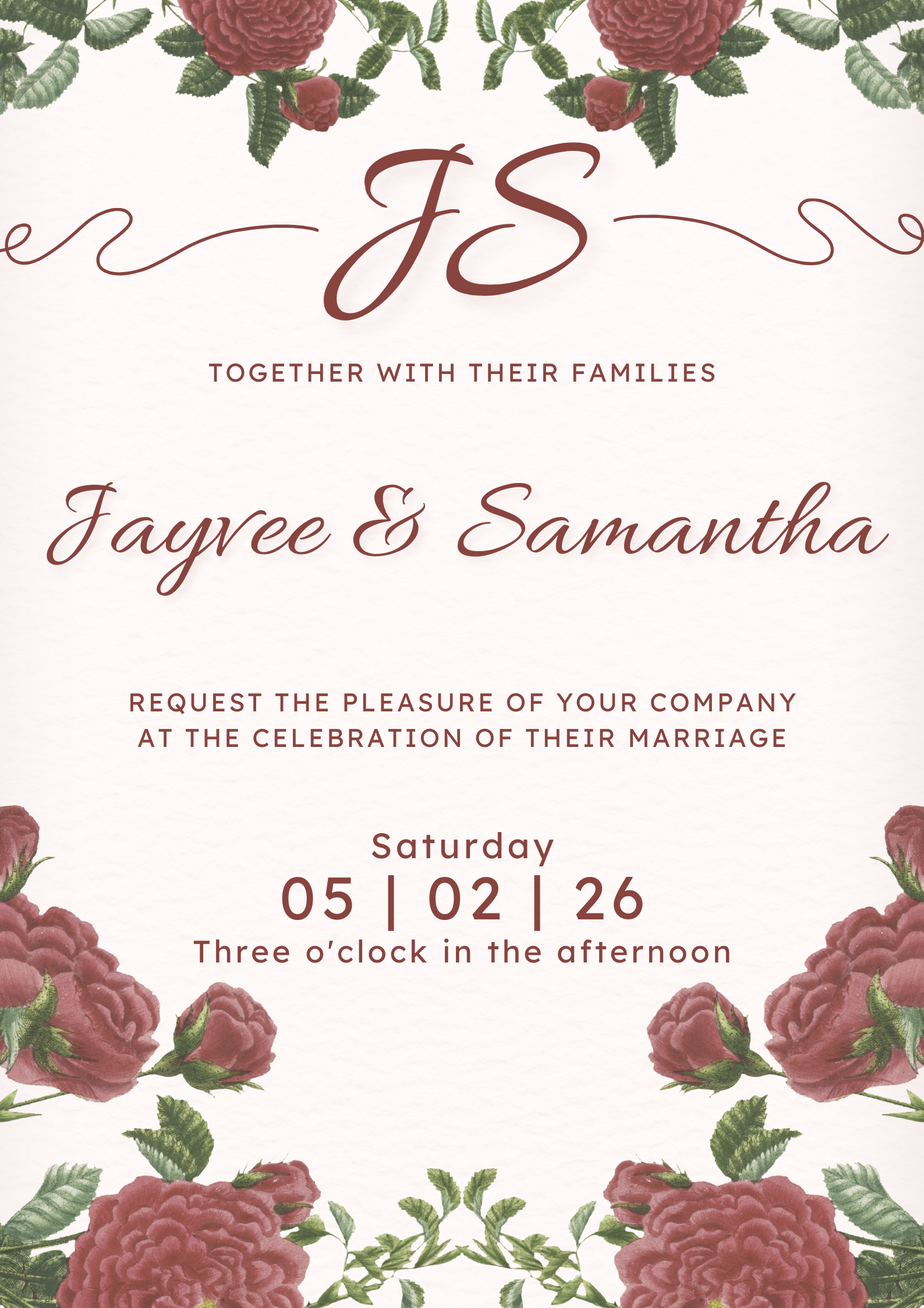
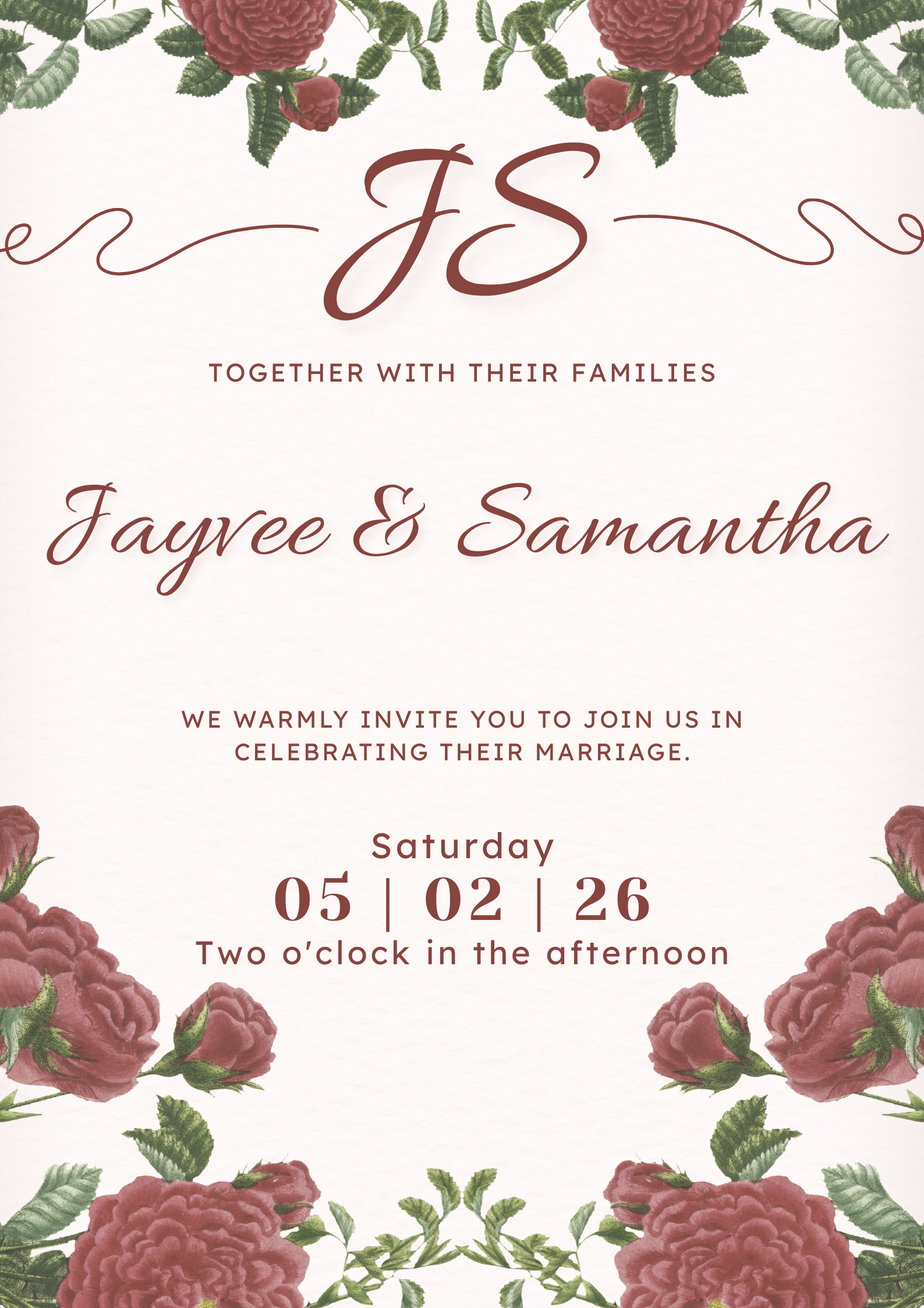
Add files via upload

Changed region(s): [[0.1235, 0.5301, 0.8645, 0.5924], [0.2161, 0.6548, 0.8028, 0.7483]]

diff --git a/index.html b/index.html
@@ -22,7 +22,7 @@
 
         <!-- Countdown Timer -->
         <section class="countdown-section fade-in">
-            <h3>Counting Down to Our Special Day</h3>
+            <h3>Counting Every Moment Until We Become One</h3>
             <div class="countdown" id="countdown">
                 <div class="countdown-item">
                     <span class="countdown-number" id="days">000</span>
@@ -61,6 +61,7 @@
                     <img src="places/kingdomhall.png" alt="Kingdom Hall of Jehovah's Witnesses">
                 </div>
                 <div class="venue-details">
+                    <span class="venue-type-label ceremony">Ceremony Venue</span>
                     <h3 class="venue-name">Kingdom Hall of Jehovah's Witnesses</h3>
                     <p class="venue-address">
                         20 Mahusay, Diliman<br>
@@ -72,10 +73,29 @@
                     </a>
                 </div>
             </div>
+            <div class="venue-card">
+                <div class="venue-image">
+                    <img src="places/idealevents.png" alt="Ideal Events Pavilion">
+                </div>
+                <div class="venue-details">
+                    <span class="venue-type-label reception">Reception Venue</span>
+                    <h3 class="venue-name">Ideal Events Pavilion</h3>
+                    <p class="venue-address">
+                        28 Abelardo Street Ideal Subdivision, Quezon City
+                    </p>
+                    <a href="https://maps.app.goo.gl/u8ZEAhNU5a6pRdjHA" target="_blank" class="map-link">
+                        <span class="map-icon">📍</span>
+                        <span>View on Google Maps</span>
+                    </a>
+                    <div class="important-note">
+                        <p><strong>⚠ Important:</strong> Please use <strong>Don Jose Ave</strong> when going to the venue. <em>Dona Carmen Ave</em> is for private vehicles with sticker only.</p>
+                    </div>
+                </div>
+            </div>
             <div class="ceremony-reception">
                 <div class="event">
                     <h4>Ceremony</h4>
-                    <p>3:00 PM</p>
+                    <p>2:00 PM</p>
                     <span class="event-venue">Kingdom Hall</span>
                 </div>
                 <div class="divider-vertical">
@@ -85,8 +105,8 @@
                 </div>
                 <div class="event">
                     <h4>Reception</h4>
-                    <p>4:30 PM</p>
-                    <span class="event-venue">To be announced</span>
+                    <p>4:00 PM</p>
+                    <span class="event-venue">Ideal Events Pavilion</span>
                 </div>
             </div>
         </section>
@@ -103,26 +123,26 @@
 
         <!-- Attendance Confirmation Section -->
         <section class="attendance-section fade-in">
-            <h2 class="section-title">Your Presence Matters</h2>
+            <h2 class="section-title">Share This Day With Us</h2>
             <div class="attendance-card">
-                <div class="attendance-icon">💌</div>
+                <div class="attendance-icon"><img src="icons/letter.png" alt="Letter"></div>
                 <p class="attendance-text">
-                    Your presence at our wedding would be the greatest gift of all.
+                    Of all the gifts in the world, your presence is the one we treasure most.
                 </p>
                 <div class="attendance-divider">
                     <span>✦</span><span>✦</span><span>✦</span>
                 </div>
                 <p class="attendance-note">
-                    <strong>Kindly confirm your attendance</strong><br>
-                    We have reserved a seat in your honor and look forward to celebrating this special day with you.
+                    <strong>We would be honored to have you there</strong><br>
+                    A seat has been lovingly reserved in your name, and our celebration would not be complete without you.
                 </p>
                 <div class="reminder-box">
                     <p class="reminder-text">
-                        If for any reason you are unable to attend, please let us know by <strong>April 15, 2026</strong> so we may adjust our arrangements accordingly.
+                        If you won't be able to make it, please let us know by <strong>April 15, 2026</strong> so we can adjust our plans with love.
                     </p>
                 </div>
                 <div class="contact-info">
-                    <p>Please inform us or JP Castillo at <strong>09950741224</strong> if you are unable to attend.</p>
+                    <p>You may reach out to us directly, or contact JP Castillo at <strong>09950741224</strong></p>
                 </div>
             </div>
         </section>
@@ -143,12 +163,12 @@
             <div class="faq-container">
                 <div class="faq-item">
                     <div class="faq-question" onclick="toggleFaq(this)">
-                        <span class="faq-icon">👗</span>
+                        <span class="faq-icon"><img src="icons/dress.png" alt="Dress"></span>
                         <span>What is the dress code?</span>
                         <span class="faq-toggle">+</span>
                     </div>
                     <div class="faq-answer">
-                        <p>The dress code is <strong>Formal</strong>. We kindly request guests to wear <strong>beige</strong> or neutral tones to complement our wedding theme. Please avoid wearing <strong>black, white, and pink</strong>.</p>
+                        <p>The dress code is <strong>Formal</strong>. We'd love for you to wear <strong>beige</strong> or soft neutral tones to complement our wedding palette. Kindly avoid <strong>black, white, and pink</strong>.</p>
                         <div class="dresscode-image">
                             <img src="section/dresscode.png" alt="Dress Code Guide">
                         </div>
@@ -156,52 +176,52 @@
                 </div>
                 <div class="faq-item">
                     <div class="faq-question" onclick="toggleFaq(this)">
-                        <span class="faq-icon">🚗</span>
+                        <span class="faq-icon"><img src="icons/car.png" alt="Parking"></span>
                         <span>Is there parking available?</span>
                         <span class="faq-toggle">+</span>
                     </div>
                     <div class="faq-answer">
-                        <p>Yes, parking is available around the venue. Only self-parking is available.</p>
+                        <p>Yes, self-parking is available near the venue. You may park with ease and join us for the celebration.</p>
                     </div>
                 </div>
                 <div class="faq-item">
                     <div class="faq-question" onclick="toggleFaq(this)">
-                        <span class="faq-icon">📸</span>
+                        <span class="faq-icon"><img src="icons/camera.png" alt="Camera"></span>
                         <span>Can we take photos during the ceremony?</span>
                         <span class="faq-toggle">+</span>
                     </div>
                     <div class="faq-answer">
-                        <p>Yes, you may take photos! However, please be mindful not to distract other guests or the professional photographers during the ceremony. Feel free to snap away during the reception!</p>
+                        <p>Yes, we'd love for you to capture the memories! Please be mindful during the ceremony, and feel free to take as many photos as you'd like at the reception!</p>
                     </div>
                 </div>
                 <div class="faq-item">
                     <div class="faq-question" onclick="toggleFaq(this)">
-                        <span class="faq-icon">🎁</span>
+                        <span class="faq-icon"><img src="icons/gift.png" alt="Gift"></span>
                         <span>What about gifts?</span>
                         <span class="faq-toggle">+</span>
                     </div>
                     <div class="faq-answer">
-                        <p>Your presence on our special day is the greatest gift we could ever ask for. However, should you wish to give us with a gift, monetary contributions would be greatly appreciated as we begin our new journey together.</p>
+                        <p>Your love and presence mean everything to us—that is truly all we ask. But if your heart wishes to bless us further, monetary gifts would be lovingly appreciated as we build our new life together.</p>
                     </div>
                 </div>
                 <div class="faq-item">
                     <div class="faq-question" onclick="toggleFaq(this)">
-                        <span class="faq-icon">💺</span>
+                        <span class="faq-icon"><img src="icons/table.png" alt="Table"></span>
                         <span>Where should I sit at the reception?</span>
                         <span class="faq-toggle">+</span>
                     </div>
                     <div class="faq-answer">
-                        <p>Our ushers and usherettes will guide you to your seat at the location.</p>
+                        <p>Our ushers will warmly welcome you and guide you to your reserved seat.</p>
                     </div>
                 </div>
                 <div class="faq-item">
                     <div class="faq-question" onclick="toggleFaq(this)">
-                        <span class="faq-icon jw-icon">JW</span>
+                        <span class="faq-icon"><img src="icons/jw.png" alt="JW"></span>
                         <span>What happens at a Wedding of Jehovah's Witnesses?</span>
                         <span class="faq-toggle">+</span>
                     </div>
                     <div class="faq-answer">
-                        <p>A Jehovah's Witness wedding is a simple, dignified ceremony centered on Bible principles. To learn more about what to expect, please visit: <a href="https://www.jw.org/tl/mga-saksi-jehova/faq/jw-kasalan/" target="_blank" style="color: var(--dusty-rose); text-decoration: underline;">JW.org - Wedding of Jehovah's Witnesses</a></p>
+                        <p>A Jehovah's Witness wedding is a beautiful, heartfelt ceremony centered on Bible principles and the blessing of marriage. To learn more about what to expect, visit <a href="https://www.jw.org/tl/mga-saksi-jehova/faq/jw-kasalan/" target="_blank" style="color: var(--dusty-rose); text-decoration: underline;">JW.org</a></p>
                     </div>
                 </div>
             </div>
@@ -209,7 +229,7 @@
 
         <!-- Photo Gallery Section -->
         <section class="gallery-section fade-in">
-            <h2 class="section-title">Our Moments Together</h2>
+            <h2 class="section-title">Moments That Led Us Here</h2>
             <div class="gallery-grid" id="gallery-grid">
                 <div class="gallery-item"><img src="https://i.ibb.co/Jw7wS6N0/DSC05967-3.jpg" alt="Photo"></div>
                 <div class="gallery-item"><img src="https://i.ibb.co/S7WNMsKZ/DSC06052-21.jpg" alt="Photo"></div>
@@ -269,8 +289,8 @@
 
         <!-- Footer -->
         <footer class="invitation-footer fade-in">
-            <p class="hashtag">#SamanthaAndJayveeForever</p>
-            <p class="footer-text">We can't wait to celebrate with you!</p>
+            <p class="hashtag">#SamanthaAndJayvee</p>
+            <p class="footer-text">With all our love, we invite you to witness the beginning of our forever</p>
             <div class="hearts">
                 <span>♥</span>
                 <span>♥</span>

diff --git a/styles.css b/styles.css
@@ -578,6 +578,30 @@ body {
     margin-bottom: 15px;
 }
 
+.venue-type-label {
+    display: inline-block;
+    padding: 6px 16px;
+    border-radius: 20px;
+    font-family: 'Montserrat', sans-serif;
+    font-size: 0.75rem;
+    font-weight: 600;
+    text-transform: uppercase;
+    letter-spacing: 1.5px;
+    margin-bottom: 12px;
+}
+
+.venue-type-label.ceremony {
+    background: linear-gradient(135deg, #e8d5e7 0%, #d4b8d4 100%);
+    color: #6b4c6b;
+    border: 1px solid #c9a8c9;
+}
+
+.venue-type-label.reception {
+    background: linear-gradient(135deg, #d5e8e0 0%, #b8d4c4 100%);
+    color: #4c6b5a;
+    border: 1px solid #a8c9b4;
+}
+
 .venue-name {
     font-family: 'Playfair Display', serif;
     font-size: 1.4rem;
@@ -617,6 +641,31 @@ body {
 
 .map-icon {
     font-size: 1.1rem;
+}
+
+.important-note {
+    margin-top: 20px;
+    padding: 15px 20px;
+    background: linear-gradient(135deg, #fff8e7 0%, #fff3cd 100%);
+    border-left: 4px solid #f0ad4e;
+    border-radius: 8px;
+    font-family: 'Cormorant Garamond', serif;
+    font-size: 0.95rem;
+    color: #856404;
+    line-height: 1.6;
+}
+
+.important-note p {
+    margin: 0;
+}
+
+.important-note strong {
+    color: #664d03;
+}
+
+.important-note em {
+    font-style: italic;
+    color: #8b5e24;
 }
 
 .ceremony-reception {
@@ -708,6 +757,12 @@ body {
 .attendance-icon {
     font-size: 3rem;
     margin-bottom: 20px;
+}
+
+.attendance-icon img {
+    width: 64px;
+    height: 64px;
+    object-fit: contain;
 }
 
 .attendance-text {
@@ -830,6 +885,15 @@ body {
 .faq-icon {
     font-size: 1.3rem;
     flex-shrink: 0;
+    display: flex;
+    align-items: center;
+    justify-content: center;
+}
+
+.faq-icon img {
+    width: 60px;
+    height: 60px;
+    object-fit: contain;
 }
 
 .faq-icon.jw-icon {
